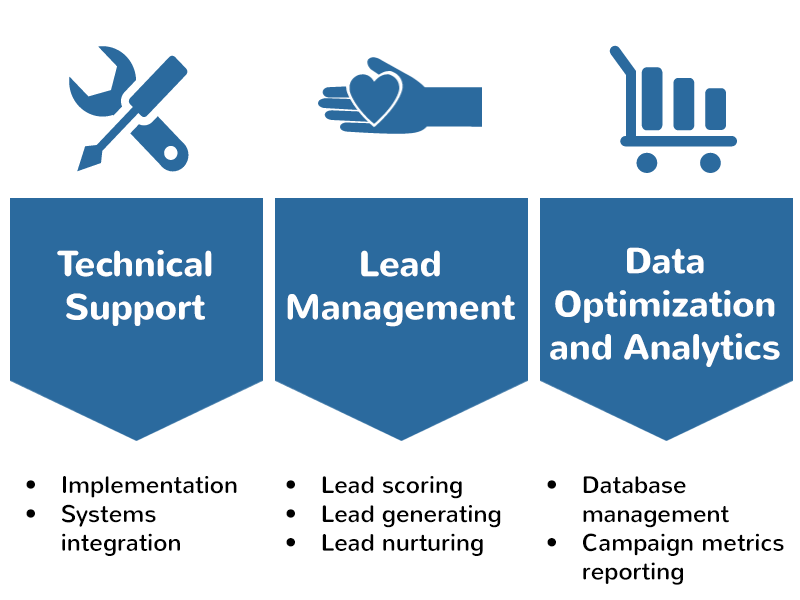
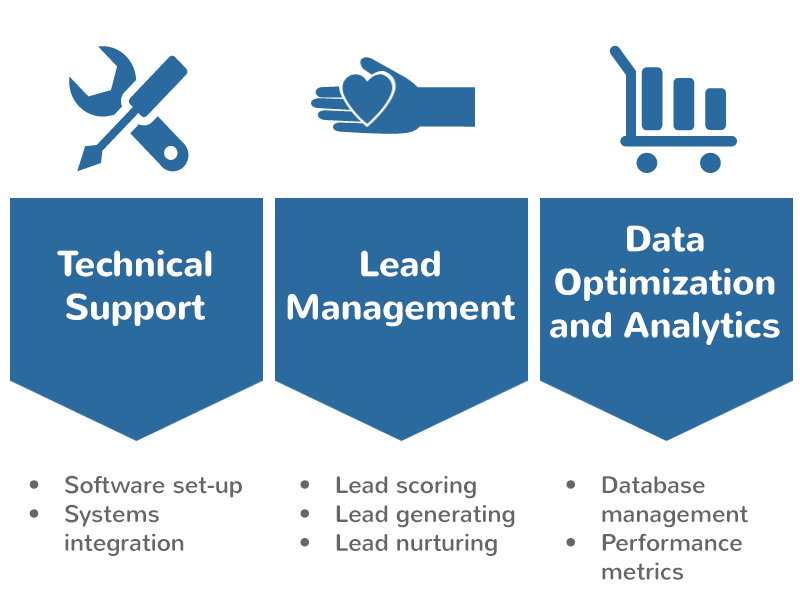
Edited image

diff --git a/index.html b/index.html
@@ -8,14 +8,15 @@
 	<title>Choosing the right Eloqua partner</title>
 </head>
 <body>
-	<div class="container">
-	<h1>What to look for in an Eloqua Partner</h1>
+	<div class="main">
+	<h1>Get the Maximum Return on your Marketing Efforts</h1>
+	<h2>Hire an Eloqua partner that offers these services</h2>
 
 	<p>Whether you’re thinking about getting on the Eloqua bandwagon or your company is already set up with the software, chances are you won’t enjoy the maximum ROI on this massive investment without some seriously hardcore marketing automation expertise.</p> 
 
-	<p>But what are the services that you should demand from your Eloqua partner? Here's a quick list that covers the basics:</p>
+	<p>But what are the services that you should request from your Eloqua partner? Here's a quick list that covers the basics:</p>
 
-	<p><img src="img/services.png" width="90%" alt="Eloqua Partner Services" align="middle"></p>
+	<p><img src="img/services.png" width="95%" alt="Eloqua Partner Services" align="middle"></p>
 
 	<p>Without the right Eloqua partner consulting you on how to use the tool to serve your unique needs, you’ll be missing out on a huge potential to drive more sales through your marketing efforts. As one reviewer put it: "We had a Lamborghini sitting in our garage and we only drove it to the mailbox and back."</p>
 

diff --git a/style.css b/style.css
@@ -11,13 +11,14 @@ h1 {
 
 h2 {
   font-weight: 400;
+  color:#666;
 }
 
 p {
   font-weight: 300;
 }
 
-.container {
+.main {
     margin-left: auto;
     margin-right: auto;
     width: 50%;
